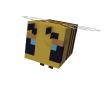
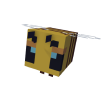
upd: full recover password

diff --git a/src/app/modules/auth/components/recover-password/recover-password.component.ts b/src/app/modules/auth/components/recover-password/recover-password.component.ts
@@ -1,4 +1,14 @@
-import { Component } from '@angular/core';
+import {Component} from '@angular/core';
+import {AuthService} from "../../services/auth.service";
+import {AbstractControlOptions, FormBuilder, FormGroup, Validators} from "@angular/forms";
+import {Router} from "@angular/router";
+import {MailerService} from "../../../shared/services/mailer.service";
+import {MatSnackBar} from "@angular/material/snack-bar";
+import {finalize, first, Subscription, switchMap, tap} from "rxjs";
+import {catchError} from "rxjs/operators";
+import {MIN_PASSWORD_LENGTH} from "../../auth.constants";
+import {CheckIfMatchingPasswordsValidator} from "../../validators/check-if-matching-passwords.validator";
+import {AuthStore} from "../../store/auth.store";
 
 @Component({
   selector: 'yrx-recover-password',
@@ -7,4 +17,72 @@ import { Component } from '@angular/core';
 })
 export class RecoverPasswordComponent {
 
+  constructor(
+    private authService: AuthService,
+    private fb: FormBuilder,
+    private router: Router,
+    private mailerService: MailerService,
+    private _snackBar: MatSnackBar,
+    private authStore: AuthStore
+  ) {
+  }
+
+  private subscriptions: Subscription[] = []
+
+  public form!: FormGroup;
+  public dataLoading: boolean = false;
+
+  public MIN_PASSWORD_LENGTH = MIN_PASSWORD_LENGTH
+
+  ngOnInit() {
+    this.initForms()
+    this.dataFields()
+    this.watchForms()
+  }
+
+  ngOnDestroy() {
+    this.subscriptions.forEach(sub => sub.unsubscribe())
+  }
+
+  public recoverPassword(): void {
+    this.dataLoading = true;
+    this.subscriptions.push(
+      this.authStore.recoveringPasswordEmail$.pipe(
+        first(),
+        switchMap((email) => this.authService.recoverPassword({email, ...this.form.getRawValue()})),
+        tap(() => {
+          this.authStore.setIsRecoveringPasswordStep(null);
+          this._snackBar.open('Пароль успешно изменён', 'Хорошо')
+          this.router.navigate(['/auth/login'])
+        }),
+        finalize(() => {
+          this.dataLoading = false;
+        }),
+        catchError(err => {
+          this._snackBar.open(err.error.message, 'Закрыть')
+          throw new Error(err);
+        })
+      ).subscribe()
+    )
+  }
+
+  private initForms(): void {
+    this.form = this.fb.group({
+      password: ["", [Validators.required, Validators.minLength(MIN_PASSWORD_LENGTH)]],
+      passwordRepeat: ["", [Validators.required, Validators.minLength(MIN_PASSWORD_LENGTH)]],
+    }, {
+      validators: [CheckIfMatchingPasswordsValidator('password', 'passwordRepeat')]
+    } as AbstractControlOptions)
+  }
+
+  private dataFields(): void {
+  }
+
+  private watchForms(): void {
+  }
+
+  public cancel() {
+    this.authStore.setIsRecoveringPasswordStep(null);
+    this.router.navigate(['/auth/login'])
+  }
 }

diff --git a/src/app/modules/auth/components/recover-password/recover-password.component.html b/src/app/modules/auth/components/recover-password/recover-password.component.html
@@ -1,1 +1,31 @@
-<p>recover-password works!</p>
+<form [formGroup]="form">
+  <yrx-auth-header page="recover-password">Новый пароль</yrx-auth-header>
+  <yrx-spacing type="XS2"></yrx-spacing>
+  <p class="text text_body regular c-gradation-300 text-center">Введите новый пароль. Пароль должен содержать все что надо и не содержать того, чего не надо.</p>
+  <yrx-spacing type="S"></yrx-spacing>
+  <div class="box">
+    <div class="box box_input">
+      <input #passwordRef autocomplete="new-password" formControlName="password" type="password" class="input_normal input_iconly" matInput placeholder="Введите пароль">
+      <yrx-icon passwordHider [deps]="[passwordRef, passwordRepeatRef]" [stroked]="true" [icon]="passwordRef.type === 'password' ? 'eye-off' : 'eye'"></yrx-icon>
+    </div>
+    <yrx-error-hint-wrapper [control]="form.get('password')">
+      <yrx-error-hint-condition [condition]="['minlength']">Длина пароля должна быть больше {{MIN_PASSWORD_LENGTH}} символов</yrx-error-hint-condition>
+      <yrx-error-hint-condition [condition]="['required']">Пароль не должен быть пустым</yrx-error-hint-condition>
+    </yrx-error-hint-wrapper>
+  </div>
+  <yrx-spacing type="XS"></yrx-spacing>
+  <yrx-password-strength [control]="form.get('password')"></yrx-password-strength>
+  <yrx-spacing type="XS"></yrx-spacing>
+  <div class="box">
+    <div class="box box_input">
+      <input #passwordRepeatRef autocomplete="password" formControlName="passwordRepeat" type="password" class="input_normal input_iconly" matInput placeholder="Повторите пароль">
+    </div>
+    <yrx-error-hint-wrapper [control]="form.get('passwordRepeat')" [isYandexCringe]="true">
+      <yrx-error-hint-condition [condition]="['notEquivalent']">Пароли не совпадают</yrx-error-hint-condition>
+    </yrx-error-hint-wrapper>
+  </div>
+  <yrx-spacing type="M"></yrx-spacing>
+  <yrx-button [iconLoading]="dataLoading" [disabled]="dataLoading || form.invalid || form.pending" (press)="recoverPassword()" class="w100" type="primary"><span>Подтвердить</span><yrx-icon *ngIf="dataLoading" btn-icon icon="loader"></yrx-icon></yrx-button>
+  <yrx-spacing type="XS"></yrx-spacing>
+  <yrx-link (press)="cancel()" class="text-center">Отмена</yrx-link>
+</form>

diff --git a/src/app/modules/auth/modules/auth-header/auth-header.component.html b/src/app/modules/auth/modules/auth-header/auth-header.component.html
@@ -12,7 +12,10 @@
     <img class="third-image layer-blur-image" src="assets/content/auth/login/bee.png" alt="Регистрируйся на самом необычном майнкрафт (minecraft) сервере с мини-играми и крутой RPG-системой - yurelax ">
   </ng-container>
   <ng-container *ngIf="page === 'recover-password'">
-
+    <img class="first-image" src="assets/content/auth/recover-password/gold_block.png" alt="Регистрируясь на yurelax, вы можете играть в крутые мини-игры: BowMaster, Hunt, Tower Defence, Block Party, Bosses, Parkour Tag, Stay Alive, Board Games">
+    <img class="second-image" src="assets/content/auth/recover-password/oak.png" alt="На yurelax можно поучастовать в интересных событиях (ивентах), которые проходят каждый месяц. Регистрируйся и не упусти возможность принять участие в ивентах (событиях).">
+    <img class="third-image" src="assets/content/auth/recover-password/bee.png" alt="Регистрируйся на самом необычном майнкрафт (minecraft) сервере с мини-играми и крутой RPG-системой - yurelax ">
+    <img class="third-image layer-blur-image" src="assets/content/auth/recover-password/bee.png" alt="Регистрируйся на самом необычном майнкрафт (minecraft) сервере с мини-играми и крутой RPG-системой - yurelax ">
   </ng-container>
   <ng-container *ngIf="page === 'email-code'">
     <img class="first-image" src="assets/content/auth/email-code/tnt.png" alt="Регистрируясь на yurelax, вы можете играть в крутые мини-игры: BowMaster, Hunt, Tower Defence, Block Party, Bosses, Parkour Tag, Stay Alive, Board Games">

diff --git a/src/app/modules/auth/components/register/register.component.ts b/src/app/modules/auth/components/register/register.component.ts
@@ -14,6 +14,7 @@ import {MailerService} from "../../../shared/services/mailer.service";
 import {MatSnackBar} from "@angular/material/snack-bar";
 import {PersistenceService} from "../../../shared/services/persistence.service";
 import {AppStore} from "../../../../store/app.store";
+import {CheckIfMatchingPasswordsValidator} from "../../validators/check-if-matching-passwords.validator";
 
 @Component({
   selector: 'yrx-register',
@@ -76,18 +77,6 @@ export class RegisterComponent {
     )
   }
 
-  public checkIfMatchingPasswords(passwordKey: string, passwordConfirmationKey: string) {
-    return (group: FormGroup) => {
-      let passwordInput = group.controls[passwordKey],
-        passwordConfirmationInput = group.controls[passwordConfirmationKey];
-      if (passwordInput.value !== passwordConfirmationInput.value || !passwordInput.value && !passwordConfirmationInput.value) {
-        return passwordConfirmationInput.setErrors({notEquivalent: true})
-      } else {
-        return passwordConfirmationInput.setErrors(null);
-      }
-    }
-  }
-
   private initForms(): void {
     this.form = this.fb.group({
       login: ["", [Validators.required, Validators.minLength(MIN_LOGIN_LENGTH), Validators.maxLength(MAX_LOGIN_LENGTH), Validators.pattern(LOGIN_VALIDATION_PATTERN)], [ExistingUserValidator(this.userService)]],
@@ -96,7 +85,7 @@ export class RegisterComponent {
       password: ["", [Validators.required, Validators.minLength(MIN_PASSWORD_LENGTH)]],
       passwordRepeat: ["", [Validators.required, Validators.minLength(MIN_PASSWORD_LENGTH)]],
     }, {
-      validators: [this.checkIfMatchingPasswords('password', 'passwordRepeat')]
+      validators: [CheckIfMatchingPasswordsValidator('password', 'passwordRepeat')]
     } as AbstractControlOptions)
     const userInvitedId: string = this.persistenceService.get('userInvitedId')
     if (userInvitedId) this.form.patchValue({userInvitedId})

diff --git a/src/app/modules/auth/services/auth.service.ts b/src/app/modules/auth/services/auth.service.ts
@@ -16,6 +16,8 @@ import {JwtMaResponseInterface} from "../interfaces/jwt-ma-response.interface";
 import {JwtMaAuthResponseInterface} from "../interfaces/jwt-ma-auth-response.interface";
 import {UserStoreInterface} from "../../../store/interfaces/user-store.interface";
 import {GetMeResponseInterface} from "../interfaces/get-me-response.interface";
+import {RecoverPasswordRequestInterface} from "../interfaces/recover-password-request.interface";
+import {RecoverPasswordResponseInterface} from "../interfaces/recover-password-response.interface";
 
 @Injectable()
 export class AuthService {
@@ -67,6 +69,14 @@ export class AuthService {
       tap((res) => {
         this.saveData(res)
       }),
+      catchError((err) => {
+        throw new Error(err.message);
+      })
+    )
+  }
+
+  recoverPassword(data: RecoverPasswordRequestInterface): Observable<RecoverPasswordResponseInterface> {
+    return this.http.post<RegisterResponseInterface>(`${environment.apiUrl}/auth/recover-password`, data).pipe(
       catchError((err) => {
         throw new Error(err.message);
       })

diff --git a/src/app/modules/auth/modules/auth-header/auth-header.component.scss b/src/app/modules/auth/modules/auth-header/auth-header.component.scss
@@ -108,3 +108,38 @@
     z-index: 0;
   }
 }
+.recover-password {
+  .first-image {
+    top: -36px;
+    right: -28px;
+    opacity: 0.3;
+    filter: blur(1px);
+    transform: rotate(-75deg);
+    width: 72px;
+    height: 72px;
+  }
+
+  .second-image {
+    opacity: 0.6;
+    filter: blur(2px);
+    transform: rotate(30deg);
+    bottom: -36px;
+    right: 60px;
+    width: 72px;
+    height: 72px;
+  }
+
+  .third-image {
+    right: 3px;
+    top: 50%;
+    transform: translateY(-50%);
+    z-index: 1;
+    width: 104px;
+    height: 104px;
+  }
+  .layer-blur-image {
+    filter: blur(50px);
+    opacity: 0.7;
+    z-index: 0;
+  }
+}

diff --git a/src/app/modules/auth/validators/check-if-matching-passwords.validator.ts b/src/app/modules/auth/validators/check-if-matching-passwords.validator.ts
@@ -1,0 +1,13 @@
+import {FormGroup} from "@angular/forms";
+
+export function CheckIfMatchingPasswordsValidator(passwordKey: string, passwordConfirmationKey: string) {
+  return (group: FormGroup) => {
+    let passwordInput = group.controls[passwordKey],
+      passwordConfirmationInput = group.controls[passwordConfirmationKey];
+    if (passwordInput.value !== passwordConfirmationInput.value || !passwordInput.value && !passwordConfirmationInput.value) {
+      return passwordConfirmationInput.setErrors({notEquivalent: true})
+    } else {
+      return passwordConfirmationInput.setErrors(null);
+    }
+  }
+}

diff --git a/src/app/modules/shared/modules/error-hint-wrapper/error-hint-wrapper.component.ts b/src/app/modules/shared/modules/error-hint-wrapper/error-hint-wrapper.component.ts
@@ -4,7 +4,7 @@ import {
   Input, OnDestroy, OnInit,
   QueryList,
 } from '@angular/core';
-import {AbstractControl, FormGroup} from "@angular/forms";
+import {AbstractControl} from "@angular/forms";
 import {ErrorHintConditionComponent} from "./modules/error-hint-condition/error-hint-condition.component";
 import {debounceTime, Subscription, tap} from "rxjs";
 

diff --git a/src/app/modules/shared/modules/link/link.component.scss b/src/app/modules/shared/modules/link/link.component.scss
@@ -4,7 +4,9 @@
 @import "src/shared/styles/layout/typography";
 
 $text: ".text, .text span";
-
+:host {
+  display: block;
+}
 @mixin link-big {
   height: 28px;
   #{$text} {

diff --git a/src/app/modules/auth/interfaces/recover-password-request.interface.ts b/src/app/modules/auth/interfaces/recover-password-request.interface.ts
@@ -1,0 +1,5 @@
+export interface RecoverPasswordRequestInterface {
+  email: string;
+  password: string;
+  passwordRepeat: string;
+}

diff --git a/src/app/modules/auth/interfaces/recover-password-response.interface.ts b/src/app/modules/auth/interfaces/recover-password-response.interface.ts
@@ -1,0 +1,3 @@
+export interface RecoverPasswordResponseInterface {
+
+}
